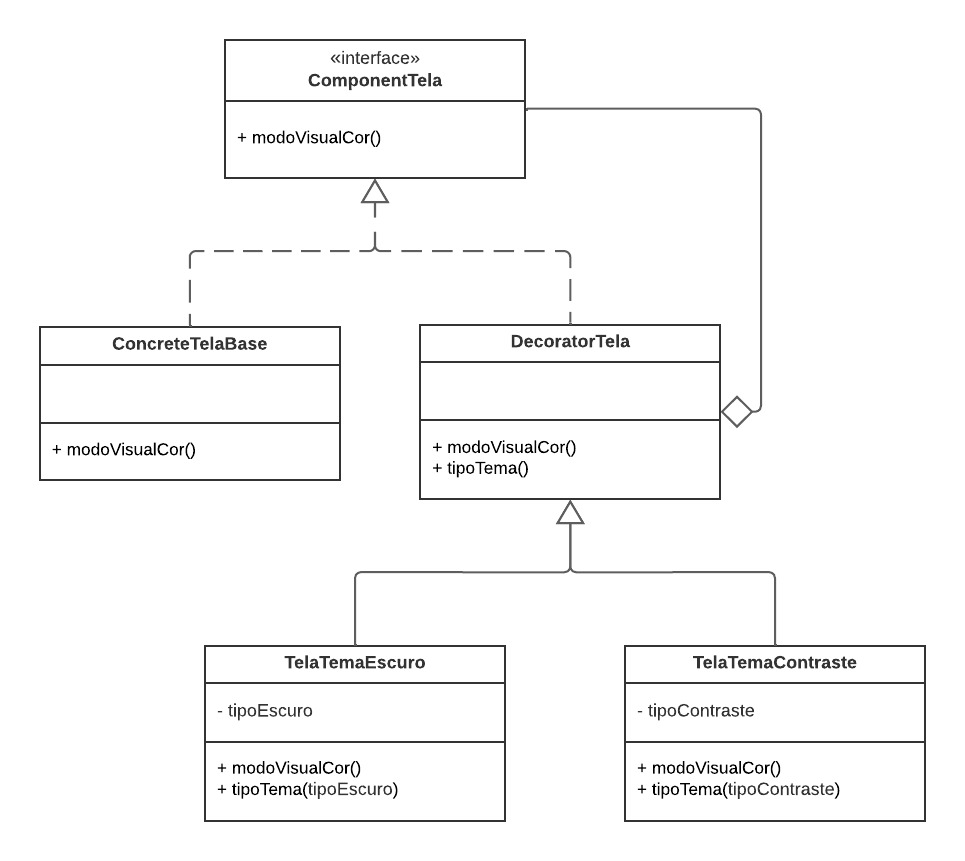
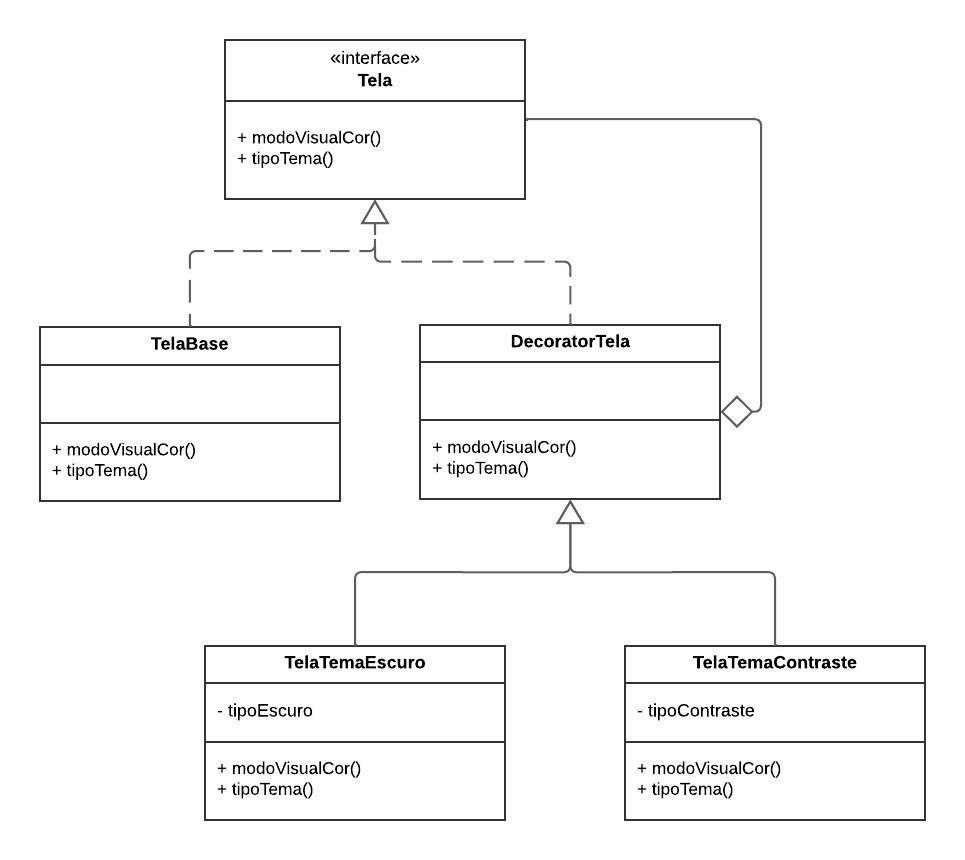
fix: codigos do decorator

diff --git a/docs/PadroesDeProjeto/estruturalDecorator.md b/docs/PadroesDeProjeto/estruturalDecorator.md
@@ -43,6 +43,7 @@
 
 ![decorator](./img/diag-estrutural-decorator.jpeg)
 
+
 ## **Código do UML Decorator**
 
 <p align="justify">
@@ -52,82 +53,172 @@
 Componente:
 
 ```ruby
-package src.decorator.component;
+package src.component;
 
-public interface ComponentTela {
+public interface Tela {
     public void modoVisualCor ();
+
+    public String tipoTema();
 }
+
 
 ```
 
-Folhas:
+Tela Base:
 
 ```ruby
-package src.decorator.component;
-import src.decorator.component.ComponentTela;
+package src.concreteComponent;
+import src.component.Tela;
 
-public class ConcreteTelaBase implements ComponentTela {
+public class TelaBase implements Tela {
 
-    public void ConcreteTelaBase(){
+    private int brilho, cor;
+    public TelaBase(int brilho, int cor){
+        this.brilho = brilho;
+        this.cor = cor;
+    }
+    @Override
+    public void modoVisualCor(){
+        System.out.println("Parâmetros Tela: brilho: " + brilho + ", cor: " + cor);
+    }
 
+    @Override
+    public String tipoTema(){
+        return "Tema Padrão";
     }
 }
 ```
 
-```ruby
-package src.decorator.component;
-import src.decorator.component.DecoratorTela;
 
-public class TelaTemaEscuro implements DecoratorTela {
-    private boolean tipoEscuro;
-
-    @Override
-    public void modoVisualCor() {
-        super.modoVisualCor();
-    }
-
-    @Override
-    public void tipoTema() {
-        super.tipoTema();
-    }
-}
-```
-
-```ruby
-package src.decorator.component;
-
-public class TelaTemaContraste implements DecoratorTela {
-    private boolean tipoContraste;
-
-    @Override
-    public void modoVisualCor() {
-        super.modoVisualCor();
-    }
-
-    @Override
-    public void tipoTema() {
-        super.tipoTema();
-    }
-}
-```
-
-```ruby
-package src.decorator.component;
-
-public class DecoratorTela implements ComponentTela {
-    @Override
-    public void modoVisualCor() {
-
-    }
-    public void tipoTema() {
-
-    }
-}
-```
 Decorator:
+```ruby
+package src.decorator;
+
+import src.component.Tela;
+
+import java.util.ArrayList;
+import java.util.List;
+
+public class DecoratorTela implements Tela {
+    private List<Tela> temas = new ArrayList();
+
+    public DecoratorTela(Tela tema) {
+        this.addTela(tema);
+    }
+
+    public void addTela(Tela tema){
+        this.temas.add(tema);
+    }
+    public void removeTela(Tela tema){
+        this.temas.remove(tema);
+    }
+
+    @Override
+    public void modoVisualCor() {
+        for(Tela tema : this.temas){
+            tema.modoVisualCor();
+//            tema.tipoTema();
+        }
+    }
+    @Override
+    public String tipoTema() {
+        for(Tela tema : this.temas){
+            tema.tipoTema();
+            return "Tema:";
+        }
+        return "";
+    }
+}
+
+```
+
+Decorator Tela:
+```ruby
+package src.concreteDecoratorTela;
+import src.decorator.DecoratorTela;
+import src.component.Tela;
+
+public class TelaTemaEscuro extends DecoratorTela {
+    private String tipoEscuro = "Escuro";
+
+    public TelaTemaEscuro(Tela tema){
+        super (tema);
+    }
+
+    @Override
+    public void modoVisualCor() {
+        super.modoVisualCor();
+        System.out.println("Componente decorado (TelaTemaEscuro)");
+    }
+
+    @Override
+    public String tipoTema() {
+        super.tipoTema();
+        return "Alterou o tema para " + this.tipoEscuro;
+    }
+}
+
+```
+
+```ruby
+package src.concreteDecoratorTela;
+
+import src.decorator.DecoratorTela;
+import src.component.Tela;
+
+public class TelaTemaContraste extends DecoratorTela {
+    private String tipoContraste = "Contraste";
+
+    public TelaTemaContraste(Tela tela){
+        super(tela);
+    }
+
+    public void modoVisualCor() {
+        super.modoVisualCor();
+        System.out.println("Componente decorado (TelaTemaContraste)");
+    }
+
+    @Override
+    public String tipoTema() {
+        super.tipoTema();
+        return "Alterou o tema para " + this.tipoContraste;
+    }
+}
+
+```
 
 Principal:
+```ruby
+package src.teste;
+import src.component.Tela;
+import src.concreteComponent.TelaBase;
+import src.concreteDecoratorTela.TelaTemaEscuro;
+import src.concreteDecoratorTela.TelaTemaContraste;
 
+public class Teste {
+    public static void main(String[] args) {
+
+        TelaBase tema = new TelaBase(50, 54);
+        Tela tema1 = (Tela) tema;
+        Tela tema2 = new TelaTemaContraste(tema1);
+        Tela tema3 = new TelaTemaContraste(tema2);
+        Tela tema4 = new TelaTemaEscuro(tema3);
+
+        tema4.modoVisualCor();
+        System.out.println(tema3.tipoTema());
+        System.out.println(tema4.tipoTema());
+    }
+}
+
+```
+
+Resposta:
+
+![resposta](./img/resposta-codigo-decorator.jpeg)
+<div>
+    <h6 align="center"> Resposta do Código. Fonte: Intellij, 2024.
+    </h6>
+</div>
 
 ## **Bibliografia**
 
@@ -139,4 +230,5 @@ Principal:
 | ------ | ---------- | -------------------- | --------------------------------------------------- | ----------- |
 | `1.0`  | 22/07/2024 | Criação do documento e da estrutura | [Maria Eduarda Barbosa](https://github.com/Madu01) |    [Marina Márcia](https://github.com/The-Boss-Nina)       |
 | `1.1`| 24/07/2024 | Adiciona UML, introdução e objetivo | [Felipe Direito](https://github.com/FelipeDireito)  |  [Felipe Hansen](https://github.com/FHansen98)  |
-| `1.2`| 24/07/2024 | Adiciona Começo do Código | [Felipe Hansen](https://github.com/FHansen98)  |  [Felipe Direito](https://github.com/FelipeDireito)  |
+| `1.2`| 24/07/2024 | Adiciona começo do código | [Felipe Hansen](https://github.com/FHansen98)  |  [Felipe Direito](https://github.com/FelipeDireito)  |
+| `1.3`| 25/07/2024 | Finalizando código | [Felipe Hansen](https://github.com/FHansen98)  |  [Luis Henrique Luz Costa ](https://github.com/luishenrrique)   |
